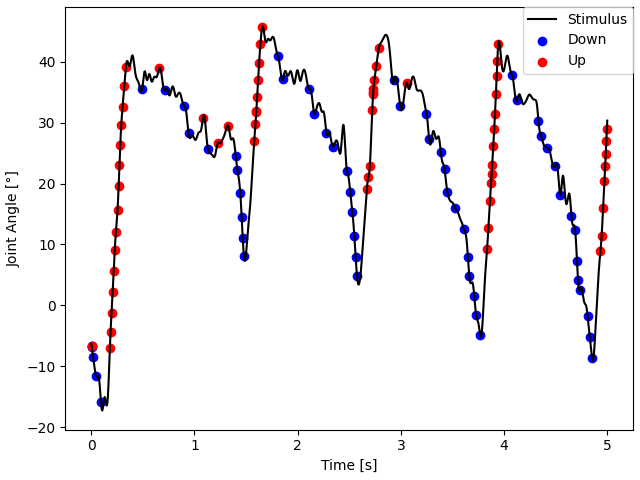
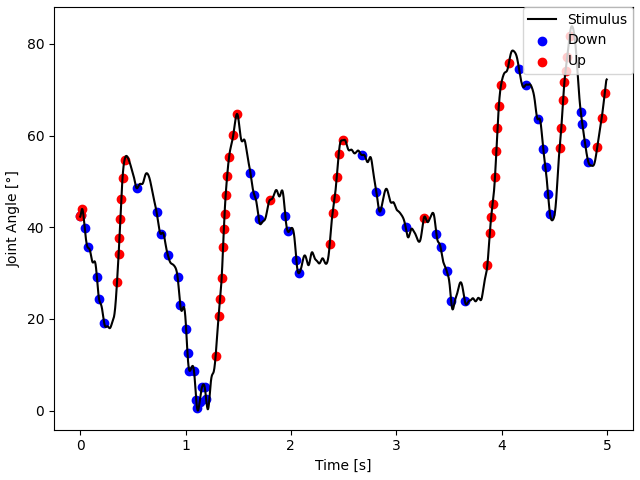
-

diff --git a/run_primitive_optimization.py b/run_primitive_optimization.py
@@ -7,14 +7,16 @@ velocity_list = pickle_open('Data/velocity_list')
 position_list = pickle_open('Data/position_list')
 ground_truth_list = pickle_open('Data/ground_truth')
 
-parameters = Parameters(t_total=5, dt=0.0001)
+
+parameters = Parameters(t_total=5, dt=0.001)
 N_simulations = len(velocity_list)
+N_simulations = 2
 permutations = get_primitive_indexes(6)
 
-tau_list = np.linspace(1e-3, 15e-3, num=11)
-n_w = 7
-w_1 = np.linspace(1e-3, 19e-3, num=n_w)
-w_2 = np.linspace(1e-3, 19e-3, num=n_w)
+tau_list = np.linspace(0e-3, 7.5e-3, num=4)
+n_w = 5
+w_1 = np.linspace(0e-3, 15e-3, num=n_w)
+w_2 = np.linspace(0e-3, 15e-3, num=n_w)
 w_1_opt, w_2_opt, accuracy_opt = \
     np.zeros([tau_list.size, 5]), np.zeros([tau_list.size, 5]), np.zeros([tau_list.size, 5])
 accuracy_matrix = np.zeros((n_w, n_w, 5))
@@ -25,10 +27,9 @@ for p in tqdm(range(tau_list.size)):
             w_pos = [w_1[l]]*5
             w_vel = [w_2[m]]*5
             _, synapse_type, weights_primitive, primitive_filter_2, primitive_filter = get_encoding(w_pos, w_vel)
-
-            primitive_neuron = define_and_initialize(LIF_primitive, parameters.primitive)
             parameters.primitive['w'] = weights_primitive
             parameters.primitive['tau'] = tau_list[p]
+            primitive_neuron = define_and_initialize(LIF_primitive, parameters.primitive)
             spike_primitive = np.zeros((parameters.general['N_steps'], 360))
             true_positive, false_positive, true_negative, false_negative = \
                 [np.empty((N_simulations, 360)) for _ in range(4)]
@@ -42,11 +43,12 @@ for p in tqdm(range(tau_list.size)):
                                                               primitive_filter)
 
                     _, spike_primitive[j, :] = primitive_neuron.forward(pos_vel_spikes)
-
                 ground_truth_bins = convert_to_bins(ground_truth, 100)
                 spike_primitive_bins = convert_to_bins(spike_primitive, 100)
 
                 for j in range(360):
+
+
                     intersect = spike_primitive_bins[:, j] + ground_truth_bins[:, j]
                     difference = spike_primitive_bins[:, j] - ground_truth_bins[:, j]
 
@@ -54,6 +56,17 @@ for p in tqdm(range(tau_list.size)):
                     false_positive[i, j] = difference[difference > 0.5].size
                     true_negative[i, j] = intersect[intersect < 0.5].size
                     false_negative[i, j] = difference[difference < -0.5].size
+
+                    '''
+                    print(true_positive[i, j], true_negative[i, j], false_positive[i, j], false_negative[i, j])
+                    print((true_positive[i, j] + true_negative[i, j])/(true_positive[i, j] + true_negative[i, j] + false_positive[i, j] + false_negative[i, j]))
+                    print(synapse_type[j])
+                    x = range(ground_truth_bins[:, j].size)
+                    plt.scatter(x, ground_truth_bins[:, j])
+                    plt.scatter(x, spike_primitive_bins[:, j]*2)
+                    plt.show()
+                    '''
+
 
             true_pos_sum = np.sum(true_positive, axis=0)
             false_pos_sum = np.sum(false_positive, axis=0)
@@ -63,23 +76,37 @@ for p in tqdm(range(tau_list.size)):
             N_types = np.bincount(synapse_type)
 
             for i in range(360):
-                ACC = (true_pos_sum[i] + true_neg_sum[i])/(true_pos_sum[i] + true_neg_sum[i] + false_pos_sum[i] +
-                                                           false_neg_sum[i] + 0.0000001)
-                accuracy_types[synapse_type[i]] += ACC/N_types[synapse_type[i]]
+                TPR = true_pos_sum[i] / (true_pos_sum[i] + false_neg_sum[i] + 0.0000001)
+                TNR = true_neg_sum[i] / (true_neg_sum[i] + false_pos_sum[i] + 0.0000001)
+                PPV = true_pos_sum[i] / (true_pos_sum[i] + false_pos_sum[i] + 0.0000001)
+                NPV = true_neg_sum[i] / (true_neg_sum[i] + false_neg_sum[i] + 0.0000001)
+                FNR = 1 - TPR
+                FPR = 1 - TNR
+                FDR = 1 - PPV
+                FOR = 1 - NPV
 
-            accuracy_matrix[m, l, :] = accuracy_types
+                MCC = np.sqrt(TPR*TNR*PPV*NPV) - np.sqrt(FNR*FPR*FOR*FDR)
+
+                accuracy_types[synapse_type[i]] += MCC / N_types[synapse_type[i]]
+
+                #ACC = (true_pos_sum[i] + true_neg_sum[i])/(true_pos_sum[i] + true_neg_sum[i] + false_pos_sum[i] +
+                #                                           false_neg_sum[i] + 0.0000001)
+                #accuracy_types[synapse_type[i]] += ACC/N_types[synapse_type[i]]
+
+            accuracy_matrix[l, m, :] = accuracy_types
 
     for i in range(5):
         indexes = np.where(accuracy_matrix[:, :, i] == np.max(accuracy_matrix[:, :, i]))
-        w_1_opt[p, i], w_2_opt[p, i] = w_1[indexes[0][-1]], w_2[indexes[1][-1]]
+        w_1_opt[p, i], w_2_opt[p, i] = w_1[indexes[0][0]], w_2[indexes[1][0]]
         accuracy_opt[p, i] = accuracy_matrix[indexes[0][-1], indexes[1][-1], i]
 
 fig, ax = plt.subplots(figsize=(1.5*3.54, 3.54), dpi=600)
 
 for i in range(5):
     ax.plot(tau_list*1000, accuracy_opt[:, i], color=parameters.general['colors'][i], linestyle='dotted')
-    ax.scatter(tau_list*1000, accuracy_opt[:, i], color=parameters.general['colors'][i], s=8)
 ax.plot(tau_list*1000, np.mean(accuracy_opt, axis=1), color='black')
+for i in range(5):
+    ax.scatter(tau_list*1000, accuracy_opt[:, i], color=parameters.general['colors'][i], s=8)
 ax.scatter(tau_list*1000, np.mean(accuracy_opt, axis=1), color='black', s=10)
 
 plot_primitive_accuracy(ax, fig, tau_list)
@@ -90,6 +117,7 @@ width = 100*(tau_list[1] - tau_list[0])
 for i in range(tau_list.size):
     for j in range(5):
         ax[0].bar(tau_list[i]*1000 + (-2*width + width * j), w_1_opt[i, j]*1000, width, color=colors[j])
-        ax[1].bar(tau_list[i]*1000 + (-2*width + width * j), w_2_opt[i, j]*1000, width, color=colors[j])
+        ax[1].bar(tau_list[i] * 1000 + (-2 * width + width * j), w_2_opt[i, j] * 1000, width, color=colors[j])
+
 
 plot_primitive_weights(ax, fig, tau_list, w_1, w_2)

diff --git a/run_full_network.py b/run_full_network.py
@@ -7,9 +7,10 @@ from class_hair_field import HairField
 from plots import *
 from functions import *
 
-N_simulations = 10
+N_simulations = 2
 w_pos = [14e-3, 0, 12e-3, 10e-3, 7.5e-3]
 w_vel = [12e-3, 14.5e-3, 0, 11e-3, 12e-3]
+w_pos = [500, 500, 500, 500, 500]
 _, synapse_type, weights_primitive, primitive_filter_2, primitive_filter = get_encoding(w_pos, w_vel)
 permutations = get_primitive_indexes(6)
 data = pickle_open('Data/simulation_data')
@@ -20,7 +21,7 @@ for k in tqdm(range(N_simulations), desc='Network progress'):
     joint_angles = np.array(data[f'simulation_{k}'][0]).T
 
     parameters = Parameters(max_joint_angle=np.amax(joint_angles, axis=0), min_joint_angle=np.amin(joint_angles, axis=0),
-                            n_hairs=20, t_total=5, dt=0.0001, n_angles=18)
+                            n_hairs=20, t_total=5, dt=0.001, n_angles=18)
     parameters.primitive['w'] = weights_primitive
 
     N_frames = parameters.general['N_frames']
@@ -30,9 +31,11 @@ for k in tqdm(range(N_simulations), desc='Network progress'):
     joint_angles = joint_angles[:parameters.general['N_frames']]
     joint_angles = interpolate(joint_angles, parameters.general['t_total'], parameters.general['N_steps'])
 
+
     hair_angles = np.zeros((joint_angles.shape[0], 2*joint_angles.shape[1]*parameters.hair_field['N_hairs']))
 
     for i in range(18):
+        joint_angles[:, i] = gaussian_filter(joint_angles[:, i], 5)
         hair_field = HairField(parameters.hair_field)
         hair_field.reset_max_min(i)
         hair_field.get_double_receptive_field()
@@ -180,10 +183,13 @@ for k in tqdm(range(N_simulations), desc='ROC plot progress'):
         ground_truth[j, ground_truth_2 > 2.9] = 1
         ground_truth[j, ground_truth_2 < 2.9] = 0
 
+    print(ground_truth[ground_truth < 0.5].size)
+    print(ground_truth[ground_truth > 0.5].size)
+
     ground_truth_list.append(ground_truth)
 
-    ground_truth_bins = convert_to_bins(ground_truth, 100)
-    spike_primitive_bins = convert_to_bins(spike_primitive, 100)
+    ground_truth_bins = convert_to_bins(ground_truth, 1000)
+    spike_primitive_bins = convert_to_bins(spike_primitive, 1000)
 
     for i in range(360):
         intersect = spike_primitive_bins[:, i] + ground_truth_bins[:, i]

diff --git a/run_position_optimization.py b/run_position_optimization.py
@@ -15,13 +15,13 @@ noises = [0.01, 0.05, 0.10]
 n = 100
 skip = 1
 n_angles = 18
-n_simulations = 3
+n_simulations = 1
 
-parameters = Parameters(t_total=5, dt=0.0001, n_hairs=20)
+parameters = Parameters(t_total=5, dt=0.001, n_hairs=20)
 x = np.linspace(0, parameters.general['t_total'], num=parameters.general['N_steps'])
 d, d_noise = np.zeros((n_angles, n_simulations, n_grid, n_grid)), np.zeros((n_angles, n_simulations, 3))
-b_list = np.linspace(2e-3, 10e-3, num=n_grid)
-tau_w_list = np.linspace(10e-3, 40e-3, num=n_grid)
+b_list = np.linspace(2e-3, 25e-3, num=n_grid)
+tau_w_list = np.linspace(10e-3, 60e-3, num=n_grid)
 euclidean_norm = lambda x, y: np.abs(x - y)
 
 for j in tqdm(range(n_simulations)):
@@ -74,6 +74,11 @@ for j in tqdm(range(n_simulations)):
 
                 d[i, j, l, m], cost_matrix, acc_cost_matrix, path = dtw(combined_firing_rate[::n], joint_angle[::n], dist=euclidean_norm)
 
+                #print(f'b: {b_list[l]}, tau: {tau_w_list[m]}, d: {d[i, j, l, m]}')
+                #plt.plot(x_plot, combined_firing_rate)
+                #plt.plot(x_plot, joint_angle)
+                #plt.show()
+
     for i in range(n_angles):
         for k in range(len(noises)):
             joint_angle = zscore.zscore(joint_angles[:, i])
@@ -115,7 +120,7 @@ i = 0
 for m in range(b_list.size):
     for l in range(tau_w_list.size):
         ax.errorbar(d_average[l, m], i+3, xerr=d_std[l, m], fmt='o', color='black', capsize=3)
-        yticks.append(f'tau={tau_w_list[m]*1000}ms, b={b_list[l]*1000}mV')
+        yticks.append(f'tau={np.around(tau_w_list[m]*1000, 3)}ms, b={np.around(b_list[l]*1000, 3)}mV')
         i += 1
 ax.set_yticks(range(i+3))
 ax.set_yticklabels(yticks)

diff --git a/dictionaries.py b/dictionaries.py
@@ -21,7 +21,7 @@ class Parameters:
                                       'V_R': -70e-3, 'n': 2 * n_angles, 'N_input': n_hairs,
                                       'dt': dt, 'refrac': 0}
 
-        self.primitive = {'tau': 50e-3, 'V_T': -50e-3, 'V_R': -70e-3, 'n': 360, 'w': 0,
+        self.primitive = {'tau': 100e-3, 'V_T': -50e-3, 'V_R': -70e-3, 'n': 360, 'w': 0,
                           'N_input': 3, 'dt': dt, 'refrac': 0}
 
         self.posture = {'tau': 5e-3, 'V_T': -50e-3, 'V_R': -70e-3, 'n': 1, 'w': 0,

diff --git a/plots.py b/plots.py
@@ -144,7 +144,7 @@ def plot_psth(ax, fig, neuron, leg):
 
 def plot_primitive_accuracy(ax, fig, tau_list):
     ax.set_xlabel('τ [ms]', fontsize=15)
-    ax.set_ylabel("Accuracy", fontsize=15)
+    ax.set_ylabel("Matthews correlation", fontsize=15)
     ax.set_xticks(1000*tau_list[::2])
     ax.legend(['v-p', 'v-v', 'p-p', 'p-v-v', 'v-p-p', 'mean'], loc='lower right')
     fig.tight_layout(pad=0.5)
